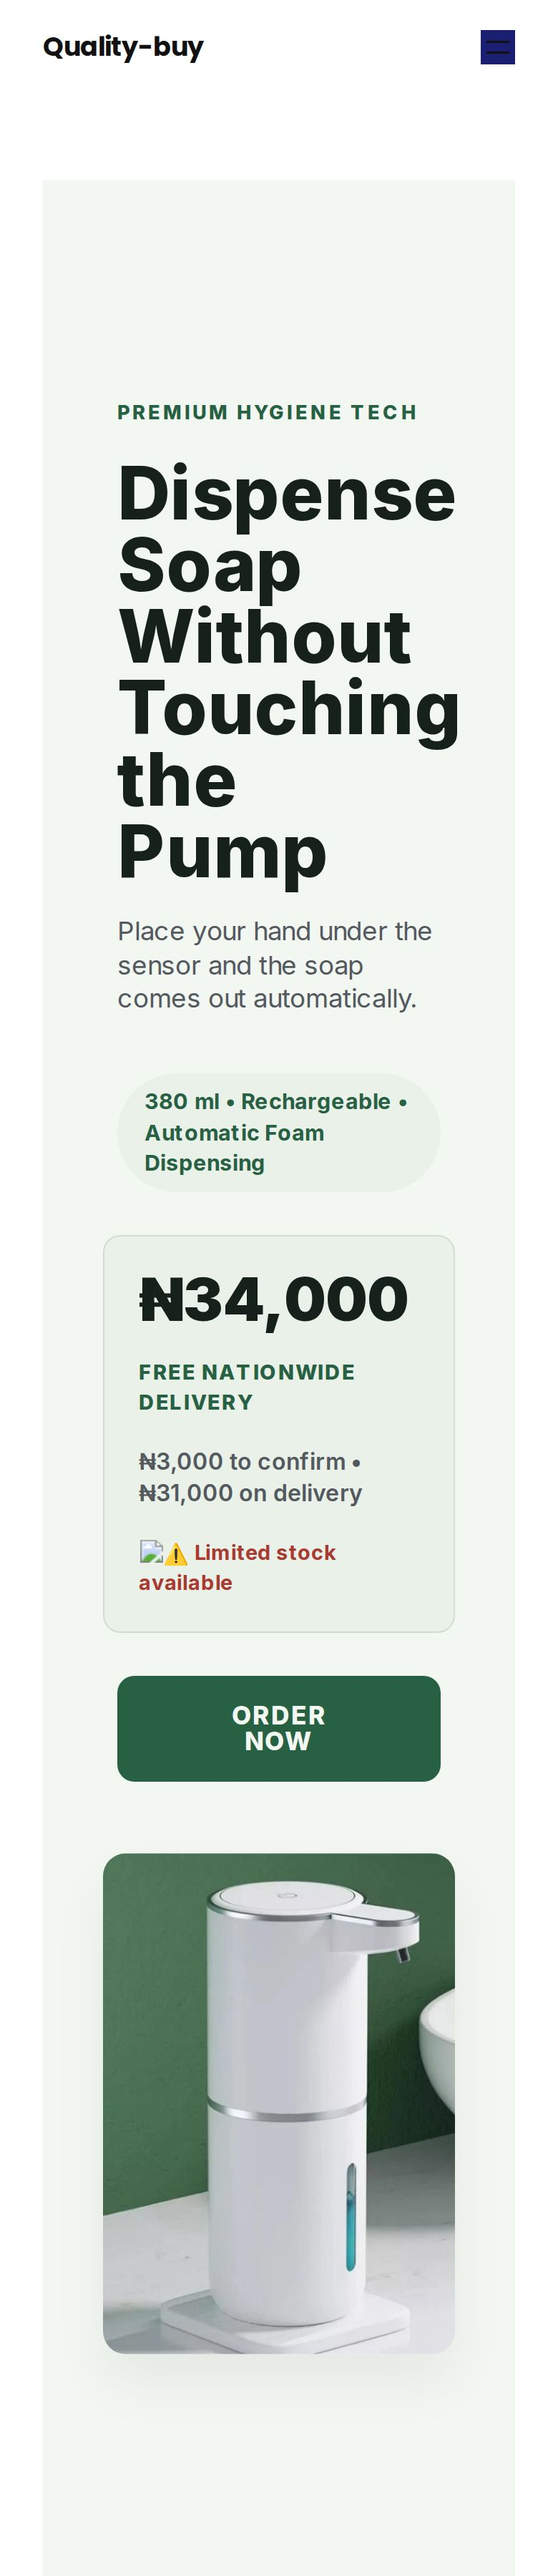
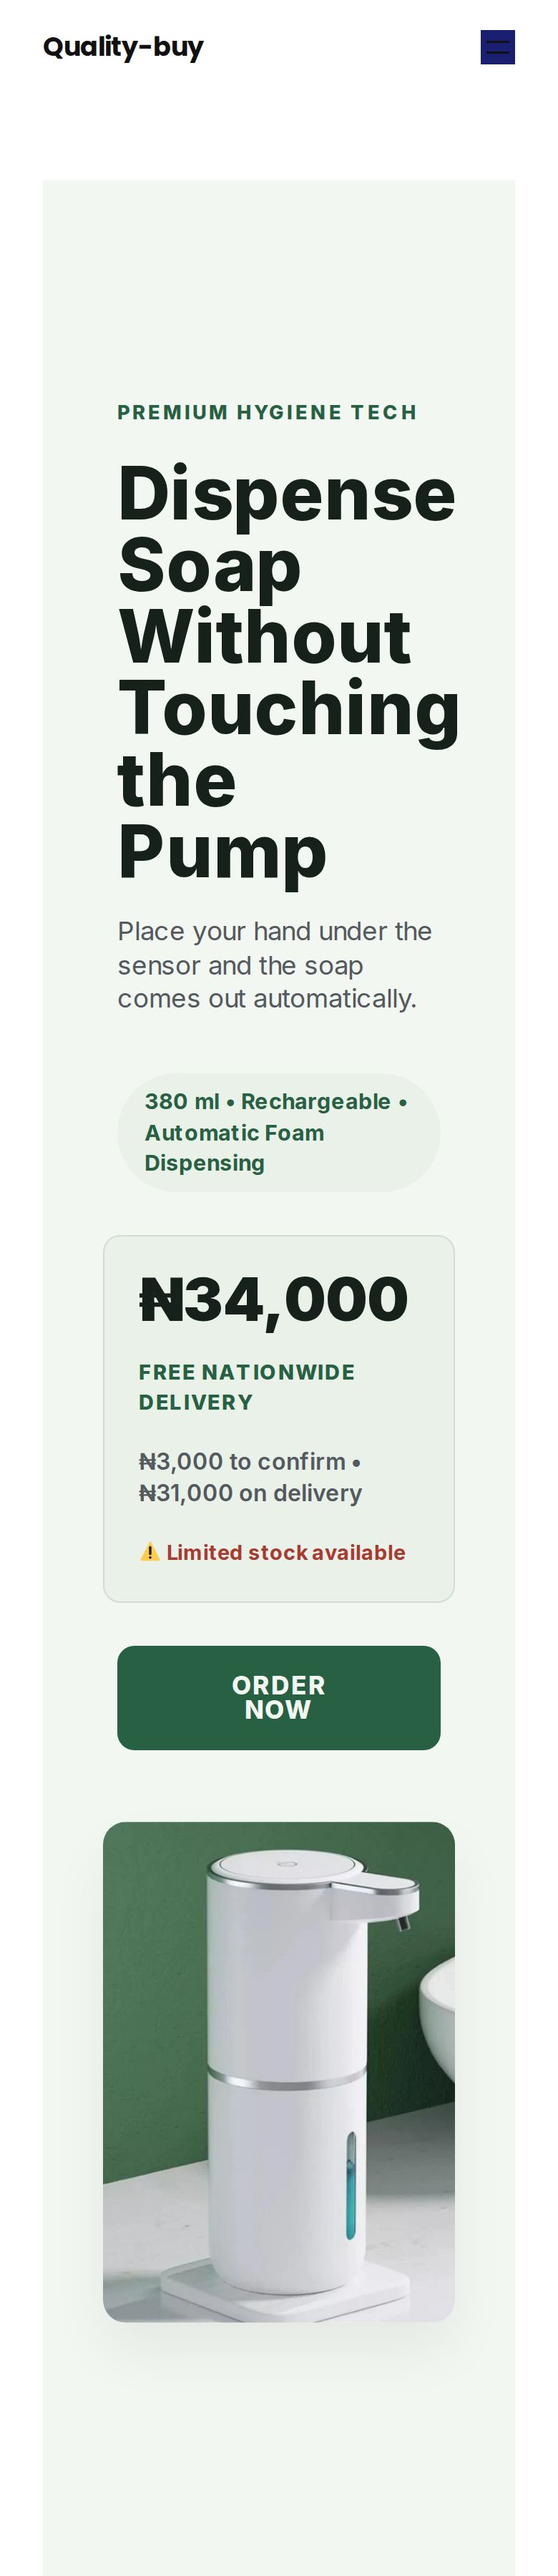
Landing page gallery: add home safe and rice bucket
- Both pages show their product content in a framed window on the live
  site; the capture stitches the full framed page above the order form,
  as a buyer scrolls through it.
- Reviewer names, initials and stock avatar photos are blurred, and a
  channel logo in the home safe video. Home safe's leftover "Rechargeable
  Car Diffuser" footer is left out of the capture; the rice bucket's
  pinned buy bar is hidden so it doesn't sit across the page.
- Automatic soap dispenser recaptured now its emoji icon loads.

Claude-Session: https://claude.ai/code/session_01SAuMeFE8FgAjsUEQ2265CG

diff --git a/lib/landing-pages.ts b/lib/landing-pages.ts
@@ -59,4 +59,18 @@ export const landingPages: LandingPage[] = [
     date: "June 2026",
     note: "A step-by-step order and delivery journey that explains the ₦3,000 confirmation payment up front.",
   },
+  {
+    slug: "home-safe",
+    blurred: true,
+    name: "Mini home safe",
+    date: "March 2026",
+    note: "A dark, premium look with a full spec sheet, a setup video, and delivery times for Lagos and other states.",
+  },
+  {
+    slug: "rice-bucket",
+    blurred: true,
+    name: "Rice bucket",
+    date: "February 2026",
+    note: "Built around one problem, weevils in stored grain, with a spec table and answers to common questions.",
+  },
 ];
